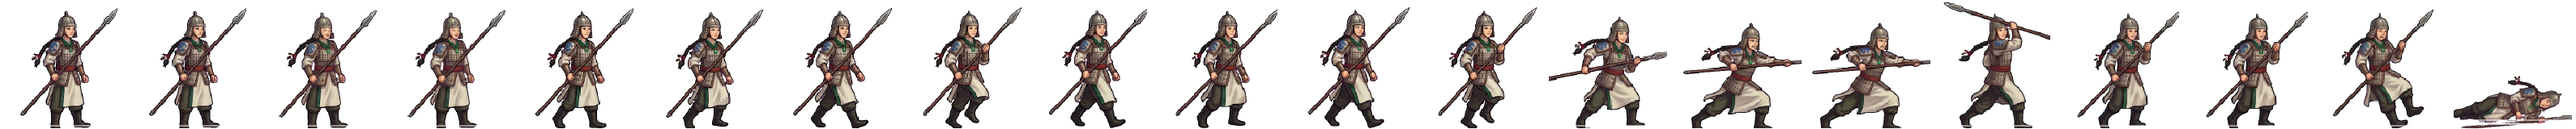
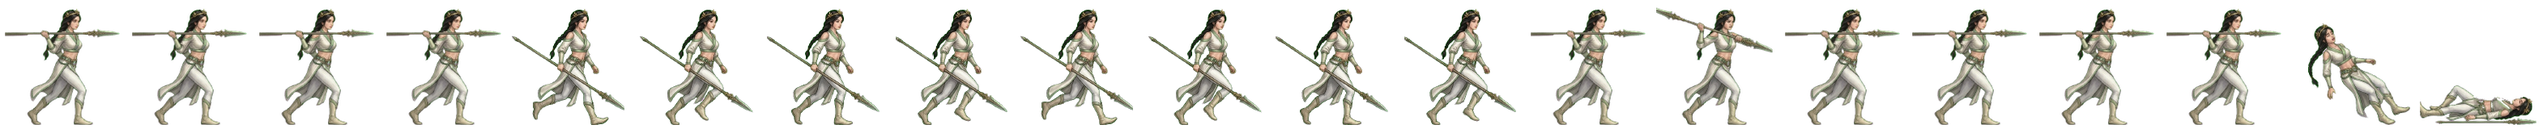
전투 띠 다시: 알영·소서노 초상대로 (금 머리 장식·흰 비단 / 금관·붉은 옷·털 망토 · 투구를 벗기고 전투 옷은 더 드러나게 · 창 찌르기) (형 11-08)
Claude-Session: https://claude.ai/code/session_01TRiuNAG8xSjdmjCFpc8Rd5

Changed region(s): [[0.0, 0.0312, 0.9987, 1.0]]

diff --git a/src/realm/data/art.ts b/src/realm/data/art.ts
@@ -474,8 +474,8 @@ export const GEN_ANIM: Readonly<Partial<Record<string, { ar: number; body: numbe
   // 제 그림 (GEN_OWN) — 글 주문만으로 받은 장수 (docs/realm/GENERAL-SPRITES.md)
   jumong: { ar: 156 / 160, body: 0.961, bow: true }, // 11-03 20컷 다시 (걷기가 한 자세였다 · 우하단 칸은 비워 받음)
   onjo: { ar: 152 / 160, body: 0.928 }, // 11-03 20컷 다시 (걷기가 한 자세였다 · 우하단 별표 칸은 따로 받아 끼움) // 첫 판은 불꽃 금관이라 버리고 쇠투구로 다시 (형 10-30: "금관은 왕의 것이지, 장수의 것이 아니야")
-  soseono: { ar: 178 / 160, body: 0.941 }, // 11-04 제 띠 (걷기 A 는 Argon · 서기·공격 B 와 쓰러짐은 edu 3.1 Pro 에 A 를 참조로 · 걷기는 네 자세가 두 번 돈다 — 반대 다리로 다시 받은 장은 옷이 바뀌어 버림)
-  aryeong: { ar: 159 / 160, body: 0.928 }, // 11-04 제 띠 (edu 3.1 Pro · 마젠타 바탕 — 초록 깃을 지키려고 · 바닥 선은 줄째 지움 · 걷기 일곱 자세 + 넷째를 여덟째로)
+  soseono: { ar: 156 / 160, body: 0.900 }, // 11-08 초상대로 다시 (형: 「투구 쓰고 원본과 다르다」 · 제미나이 걷기 4×2 + 동작 4×2 → 20컷 · assets_src/realm/gemini/generals2) · 전투 옷은 더 드러나게 (형 11-08)
+  aryeong: { ar: 157 / 160, body: 0.900 }, // 11-08 초상대로 다시 (형: 「투구 쓰고 원본과 다르다」 · 제미나이 걷기 4×2 + 동작 4×2 → 20컷 · assets_src/realm/gemini/generals2) · 전투 옷은 더 드러나게 (형 11-08)
   haedal: { ar: 149 / 160, body: 0.900, bow: true }, // 11-08 초상대로 다시 (형: 「투구 쓰고 원본과 다르다」 · 제미나이 걷기 4×2 + 동작 4×2 → 20컷 · assets_src/realm/gemini/generals2) · 전투 옷은 더 드러나게 (형 11-08)
   songbi: { ar: 150 / 160, body: 0.900, bow: true }, // 11-08 초상대로 다시 (형: 「투구 쓰고 원본과 다르다」 · 제미나이 걷기 4×2 + 동작 4×2 → 20컷 · assets_src/realm/gemini/generals2) · 전투 옷은 더 드러나게 (형 11-08)
   hyeokgeose: { ar: 147 / 160, body: 0.921 }, // 11-04 제 띠 (roqkfeke12 u/0 자동 모드 · 흰 비단·보랏빛 깃·곡옥·긴 머리 · 쇠투구)

diff --git a/src/ui/realm/battle-strikes.ts b/src/ui/realm/battle-strikes.ts
@@ -138,12 +138,12 @@ const CONTACT: Readonly<Record<string, [number, number, number]>> = {
   axe: [15, .89, .47], horse: [16, .98, .23], boat: [16, .88, .57],
   marine: [15, .99, .40], militia: [14, .98, .33],
   'gen-g-spear': [15, .99, .32], 'gen-g-sword': [16, .99, .33], 'gen-w-spear': [14, .98, .56],
-  'gen-mount': [15, .98, .22], 'gen-ara': [14, 0.76, 0.94], 'gen-aryeong': [14, .98, .48],
+  'gen-mount': [15, .98, .22], 'gen-ara': [14, 0.76, 0.94], 'gen-aryeong': [14, 0.94, 0.26],
   'gen-daeso': [14, .98, .43], 'gen-eureum': [14, .95, .13], 'gen-gamsil': [14, .92, .69],
   'gen-haebi': [14, 0.87, 0.53], 'gen-heo': [14, .97, .38], 'gen-hyeokgeose': [14, .97, .21],
   'gen-hyeopbo': [14, .93, .21], 'gen-malgalgi': [14, 0.88, 0.28], 'gen-mari': [14, .98, .47],
   'gen-oi': [14, .98, .48], 'gen-onjo': [15, .98, .33], 'gen-soebi': [14, 0.80, 0.95],
-  'gen-soseono': [14, .98, .43],
+  'gen-soseono': [14, 0.92, 0.31],
   'gen-gaennae': [14, 249 / 264, 47 / 160],
   'gen-budeul': [14, 266 / 280, 51 / 160],
   'gen-sogeumbi': [14, 225 / 280, 103 / 160],
